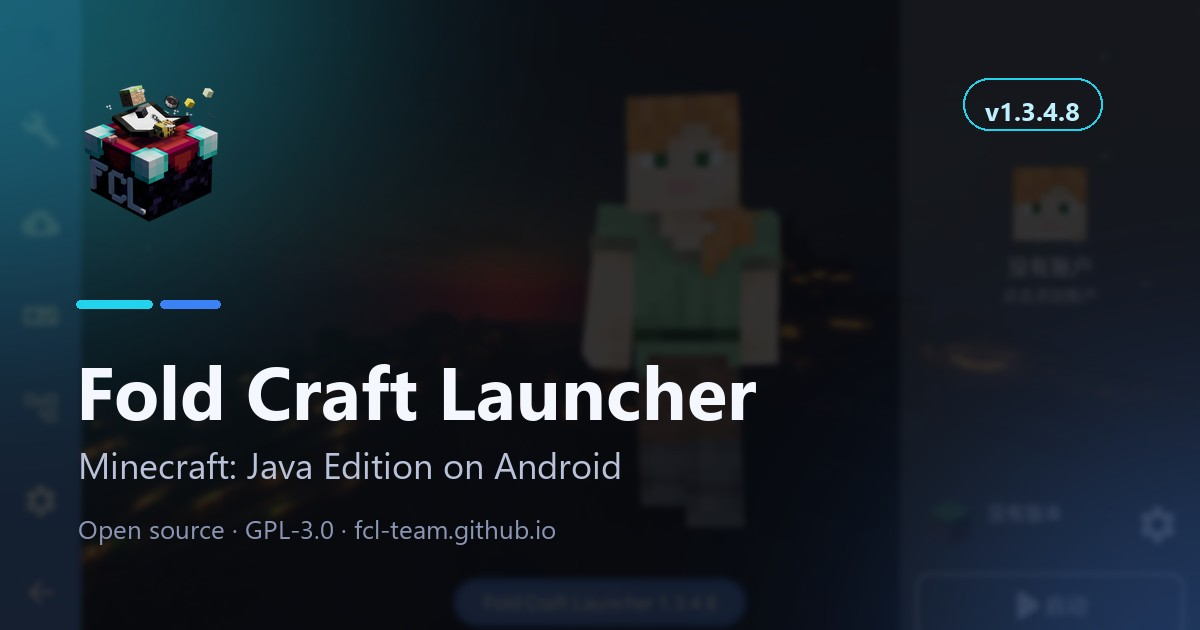
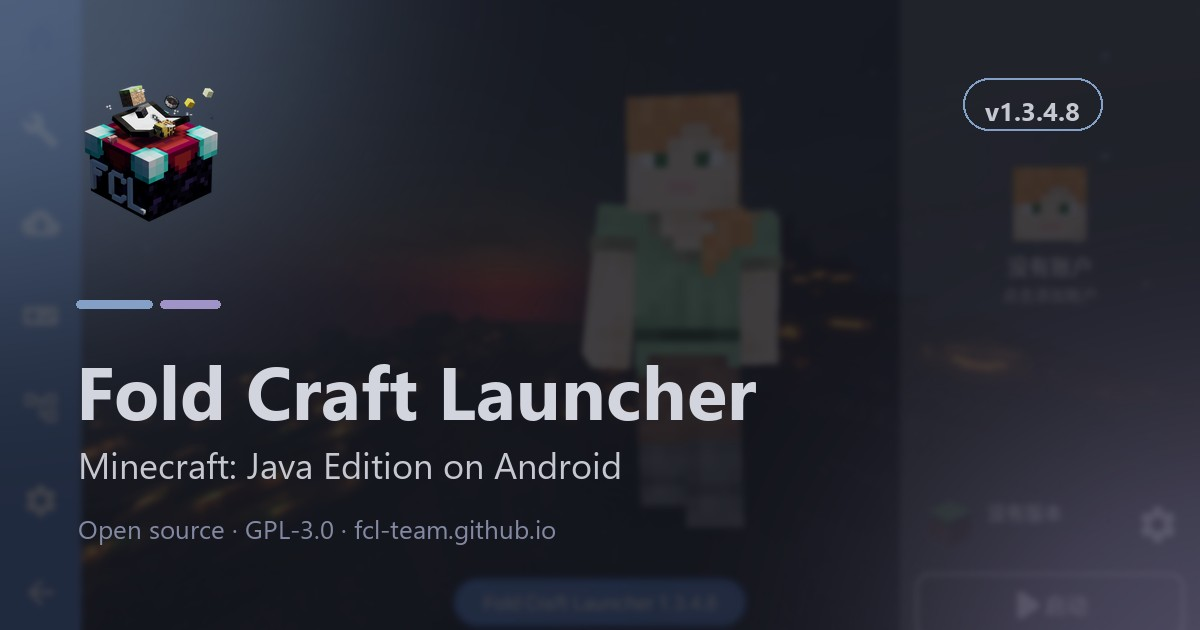
feat(theme): adopt Iceberg Dark / Iceberg Light palettes
- Replace the cyan-blue palette with Iceberg Dark (#161821 / #84a0c6 /
  #a093c7 / #89b8c2) and Iceberg Light (#e8e9ec / #2d539e / #7759b4 /
  #3f83a6) by cocopon
- Update buttons, gradients, glass surfaces, search modal, navbar/footer and
  the meta theme-color to match
- Regenerate the social card with the new palette
- Credit Iceberg (MIT) in the README

diff --git a/src/css/custom.css b/src/css/custom.css
@@ -1,19 +1,20 @@
 /**
  * Fold Craft Launcher website theme.
- * Dark is the default color mode; the light theme is supported as well.
+ * Dark is the default color mode; colors follow the Iceberg Dark / Iceberg Light
+ * palettes by cocopon (MIT).
  */
 
 /* -------------------------------------------------------------------------
  * Design tokens
  * ---------------------------------------------------------------------- */
 :root {
-  --ifm-color-primary: #0891b2;
-  --ifm-color-primary-dark: #07809e;
-  --ifm-color-primary-darker: #07778f;
-  --ifm-color-primary-darkest: #06627a;
-  --ifm-color-primary-light: #09a2c6;
-  --ifm-color-primary-lighter: #0aaacf;
-  --ifm-color-primary-lightest: #1ec3e8;
+  --ifm-color-primary: #2d539e;
+  --ifm-color-primary-dark: #284b8e;
+  --ifm-color-primary-darker: #26468a;
+  --ifm-color-primary-darkest: #1f3971;
+  --ifm-color-primary-light: #325baf;
+  --ifm-color-primary-lighter: #3460b8;
+  --ifm-color-primary-lightest: #4371ce;
 
   --ifm-font-family-base: system-ui, -apple-system, "Segoe UI", Roboto,
     "Helvetica Neue", Arial, "Noto Sans", "PingFang SC", "Hiragino Sans GB",
@@ -24,80 +25,80 @@
   --ifm-code-font-size: 92%;
   --ifm-navbar-shadow: none;
 
-  --fcl-accent: #0e7490;
-  --fcl-accent-soft: #0891b2;
-  --fcl-blue: #2563eb;
-  --fcl-indigo: #6366f1;
-  --fcl-accent-ink: #04121d;
+  --fcl-accent: #2d539e;
+  --fcl-accent-soft: #3f83a6;
+  --fcl-blue: #3f83a6;
+  --fcl-indigo: #7759b4;
+  --fcl-accent-ink: #ffffff;
   --fcl-bg-image: url('/img/background/cherry-light.webp');
   --fcl-bg-image-mobile: url('/img/background/cherry-light-960.webp');
-  --fcl-page-overlay: rgba(247, 249, 253, 0.86);
+  --fcl-page-overlay: rgba(232, 233, 236, 0.87);
   --fcl-glass-blur: 14px;
-  --fcl-surface: rgba(255, 255, 255, 0.72);
-  --fcl-surface-2: rgba(244, 247, 252, 0.62);
-  --fcl-border: rgba(15, 23, 42, 0.12);
-  --fcl-text-muted: #52607a;
-  --fcl-shadow: 0 24px 70px rgba(15, 23, 42, 0.14);
-  --fcl-glow-accent: rgba(34, 211, 238, 0.26);
-  --fcl-glow-blue: rgba(59, 130, 246, 0.18);
+  --fcl-surface: rgba(255, 255, 255, 0.76);
+  --fcl-surface-2: rgba(220, 223, 231, 0.55);
+  --fcl-border: rgba(51, 55, 76, 0.14);
+  --fcl-text-muted: #5c6178;
+  --fcl-shadow: 0 24px 70px rgba(51, 55, 76, 0.16);
+  --fcl-glow-accent: rgba(132, 160, 198, 0.28);
+  --fcl-glow-blue: rgba(63, 131, 166, 0.2);
   --fcl-max-width: 1180px;
   --fcl-radius: 20px;
   --fcl-radius-sm: 15px;
-  --fcl-gradient: linear-gradient(135deg, #22d3ee 0%, #38bdf8 52%, #60a5fa 100%);
-  --fcl-gradient-text: linear-gradient(100deg, #0891b2 0%, #2563eb 55%, #6366f1 100%);
+  --fcl-gradient: linear-gradient(135deg, #2d539e 0%, #3b5fae 45%, #7759b4 100%);
+  --fcl-gradient-text: linear-gradient(100deg, #2d539e 0%, #7759b4 55%, #3f83a6 100%);
 
-  --ifm-navbar-background-color: rgba(255, 255, 255, 0.74);
-  --ifm-footer-background-color: rgba(9, 11, 16, 0.92);
+  --ifm-navbar-background-color: rgba(248, 249, 251, 0.8);
+  --ifm-footer-background-color: rgba(30, 33, 50, 0.94);
 
   --search-local-modal-background: rgba(255, 255, 255, 0.96);
-  --search-local-hit-background: rgba(248, 250, 253, 0.92);
-  --search-local-hit-color: #1f2937;
-  --search-local-muted-color: #64748b;
+  --search-local-hit-background: rgba(247, 248, 250, 0.95);
+  --search-local-hit-color: #33374c;
+  --search-local-muted-color: #6b7089;
   --search-local-highlight-color: var(--fcl-accent);
   --search-local-input-active-border-color: var(--fcl-accent);
-  --search-local-modal-shadow: 0 18px 50px rgba(15, 23, 42, 0.2);
+  --search-local-modal-shadow: 0 18px 50px rgba(51, 55, 76, 0.2);
 }
 
 [data-theme='dark'] {
-  --ifm-color-primary: #22d3ee;
-  --ifm-color-primary-dark: #0cc9e8;
-  --ifm-color-primary-darker: #0bbfd9;
-  --ifm-color-primary-darkest: #09a7bd;
-  --ifm-color-primary-light: #3fd9f1;
-  --ifm-color-primary-lighter: #4ddcf2;
-  --ifm-color-primary-lightest: #78e6f6;
+  --ifm-color-primary: #84a0c6;
+  --ifm-color-primary-dark: #7293bf;
+  --ifm-color-primary-darker: #6a8cbb;
+  --ifm-color-primary-darkest: #5579a9;
+  --ifm-color-primary-light: #96aecd;
+  --ifm-color-primary-lighter: #9eb5d2;
+  --ifm-color-primary-lightest: #b4c5db;
 
-  --ifm-background-color: #0a0c12;
-  --ifm-background-surface-color: #10131c;
-  --ifm-navbar-background-color: rgba(10, 12, 18, 0.76);
-  --ifm-footer-background-color: rgba(7, 9, 14, 0.9);
-  --ifm-heading-color: #f4f6ff;
-  --ifm-font-color-base: #d5daea;
-  --ifm-toc-border-color: rgba(148, 163, 184, 0.15);
+  --ifm-background-color: #161821;
+  --ifm-background-surface-color: #1e2132;
+  --ifm-navbar-background-color: rgba(22, 24, 33, 0.8);
+  --ifm-footer-background-color: rgba(16, 18, 26, 0.92);
+  --ifm-heading-color: #d2d4de;
+  --ifm-font-color-base: #c6c8d1;
+  --ifm-toc-border-color: rgba(198, 200, 209, 0.16);
 
-  --fcl-accent: #22d3ee;
-  --fcl-accent-soft: #67e8f9;
-  --fcl-blue: #60a5fa;
-  --fcl-indigo: #818cf8;
-  --fcl-accent-ink: #04121d;
+  --fcl-accent: #84a0c6;
+  --fcl-accent-soft: #91acd1;
+  --fcl-blue: #89b8c2;
+  --fcl-indigo: #a093c7;
+  --fcl-accent-ink: #161821;
   --fcl-bg-image: url('/img/background/cherry-dark.webp');
   --fcl-bg-image-mobile: url('/img/background/cherry-dark-960.webp');
-  --fcl-page-overlay: rgba(10, 12, 18, 0.82);
-  --fcl-surface: rgba(18, 22, 32, 0.72);
-  --fcl-surface-2: rgba(23, 28, 41, 0.6);
-  --fcl-border: rgba(148, 163, 184, 0.18);
-  --fcl-text-muted: #98a2ba;
-  --fcl-shadow: 0 30px 90px rgba(0, 0, 0, 0.55);
-  --fcl-glow-accent: rgba(34, 211, 238, 0.2);
-  --fcl-glow-blue: rgba(59, 130, 246, 0.16);
-  --fcl-gradient: linear-gradient(135deg, #22d3ee 0%, #38bdf8 52%, #60a5fa 100%);
-  --fcl-gradient-text: linear-gradient(100deg, #22d3ee 0%, #60a5fa 55%, #818cf8 100%);
+  --fcl-page-overlay: rgba(22, 24, 33, 0.84);
+  --fcl-surface: rgba(30, 33, 50, 0.74);
+  --fcl-surface-2: rgba(38, 42, 62, 0.6);
+  --fcl-border: rgba(198, 200, 209, 0.16);
+  --fcl-text-muted: #8389a3;
+  --fcl-shadow: 0 30px 90px rgba(5, 6, 10, 0.6);
+  --fcl-glow-accent: rgba(132, 160, 198, 0.22);
+  --fcl-glow-blue: rgba(137, 184, 194, 0.18);
+  --fcl-gradient: linear-gradient(135deg, #91acd1 0%, #84a0c6 48%, #a093c7 100%);
+  --fcl-gradient-text: linear-gradient(100deg, #84a0c6 0%, #a093c7 55%, #89b8c2 100%);
 
-  --search-local-modal-background: rgba(14, 18, 27, 0.96);
-  --search-local-hit-background: rgba(26, 31, 44, 0.86);
-  --search-local-hit-color: #e6eaf5;
-  --search-local-muted-color: #94a3b8;
-  --search-local-modal-shadow: 0 18px 50px rgba(0, 0, 0, 0.55);
+  --search-local-modal-background: rgba(30, 33, 50, 0.96);
+  --search-local-hit-background: rgba(40, 44, 64, 0.9);
+  --search-local-hit-color: #c6c8d1;
+  --search-local-muted-color: #8389a3;
+  --search-local-modal-shadow: 0 18px 50px rgba(0, 0, 0, 0.6);
 }
 
 /* -------------------------------------------------------------------------
@@ -131,7 +132,7 @@ body {
   background: radial-gradient(
     ellipse 120% 80% at 50% 0%,
     transparent 40%,
-    rgba(2, 4, 8, 0.28) 100%
+    rgba(10, 11, 17, 0.32) 100%
   );
 }
 
@@ -377,12 +378,12 @@ body {
 .fcl-btn--primary {
   color: var(--fcl-accent-ink);
   background: var(--fcl-gradient);
-  box-shadow: 0 14px 34px -14px rgba(34, 211, 238, 0.55);
+  box-shadow: 0 14px 34px -14px rgba(132, 160, 198, 0.5);
 }
 
 .fcl-btn--primary:hover {
   color: var(--fcl-accent-ink);
-  box-shadow: 0 18px 42px -14px rgba(34, 211, 238, 0.8);
+  box-shadow: 0 18px 42px -14px rgba(160, 147, 199, 0.62);
 }
 
 .fcl-btn--ghost {

diff --git a/docusaurus.config.js b/docusaurus.config.js
@@ -28,7 +28,7 @@ const config = {
     },
     {
       tagName: 'meta',
-      attributes: {name: 'theme-color', content: '#0a0c12'},
+      attributes: {name: 'theme-color', content: '#161821'},
     },
   ],
 

diff --git a/README.md b/README.md
@@ -11,7 +11,7 @@ Built with [Docusaurus 3](https://docusaurus.io/).
 - **Cyan-blue accent palette** — tuned for both dark and light modes
 - **Simplified Chinese by default, English at `/en/`** — full i18n with a language switcher in the navbar
 - **Local search** — offline search across docs and pages, focused with `Ctrl/⌘ + K`, works in both languages
-- **Game-themed visuals** — fixed cherry-blossom artwork, glass cards and a cyan-blue accent palette
+- **Game-themed visuals** — fixed cherry-blossom artwork, glass cards and the Iceberg Dark / Iceberg Light palettes
 - **Subtle motion** — scroll reveals, staggered cards and micro-interactions powered by [motion](https://motion.dev/)
 - **Up-to-date screenshots** of the latest launcher interface
 - **Download page** with release assets per architecture, changelog and mirrors
@@ -124,6 +124,7 @@ errors before merging.
 - Documentation adapted from [FCL-Docs](https://github.com/FCL-Team/FCL-Docs)
 - UI inspiration: [FCLdocs community documentation](https://github.com/FCLdocs-community/FCLdocs)
 - Background artwork: 柠枺 (leemwood), provided by the author
+- Color palette: [Iceberg](https://github.com/cocopon/iceberg.vim) by cocopon (MIT)
 - Icons: hand-written SVG paths, no external icon dependency
 
 ## Troubleshooting
